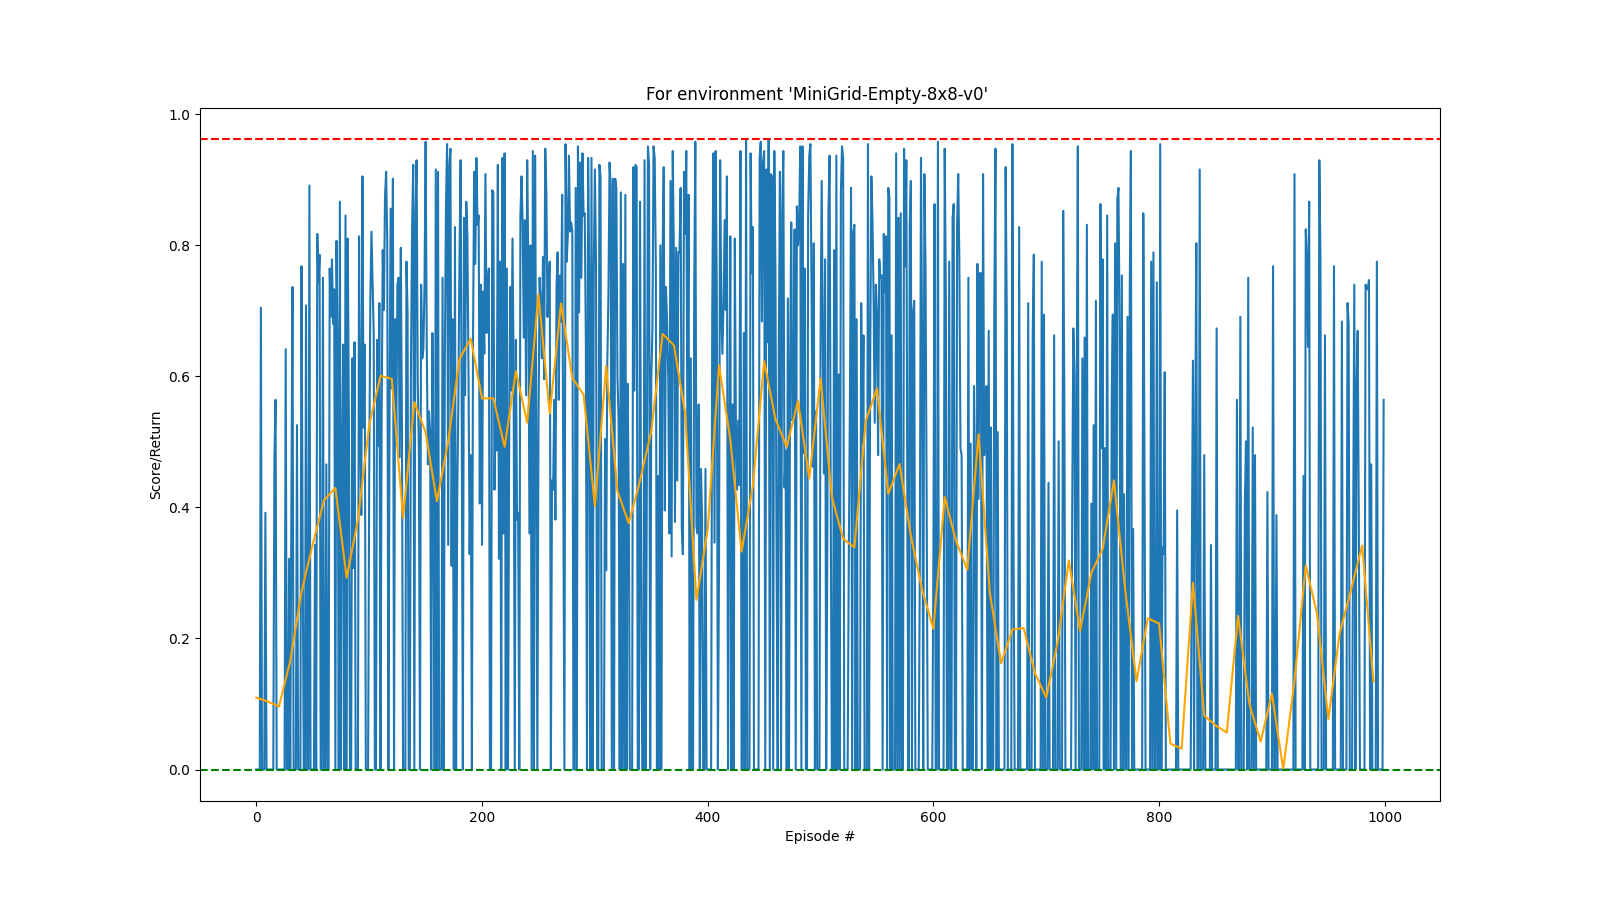
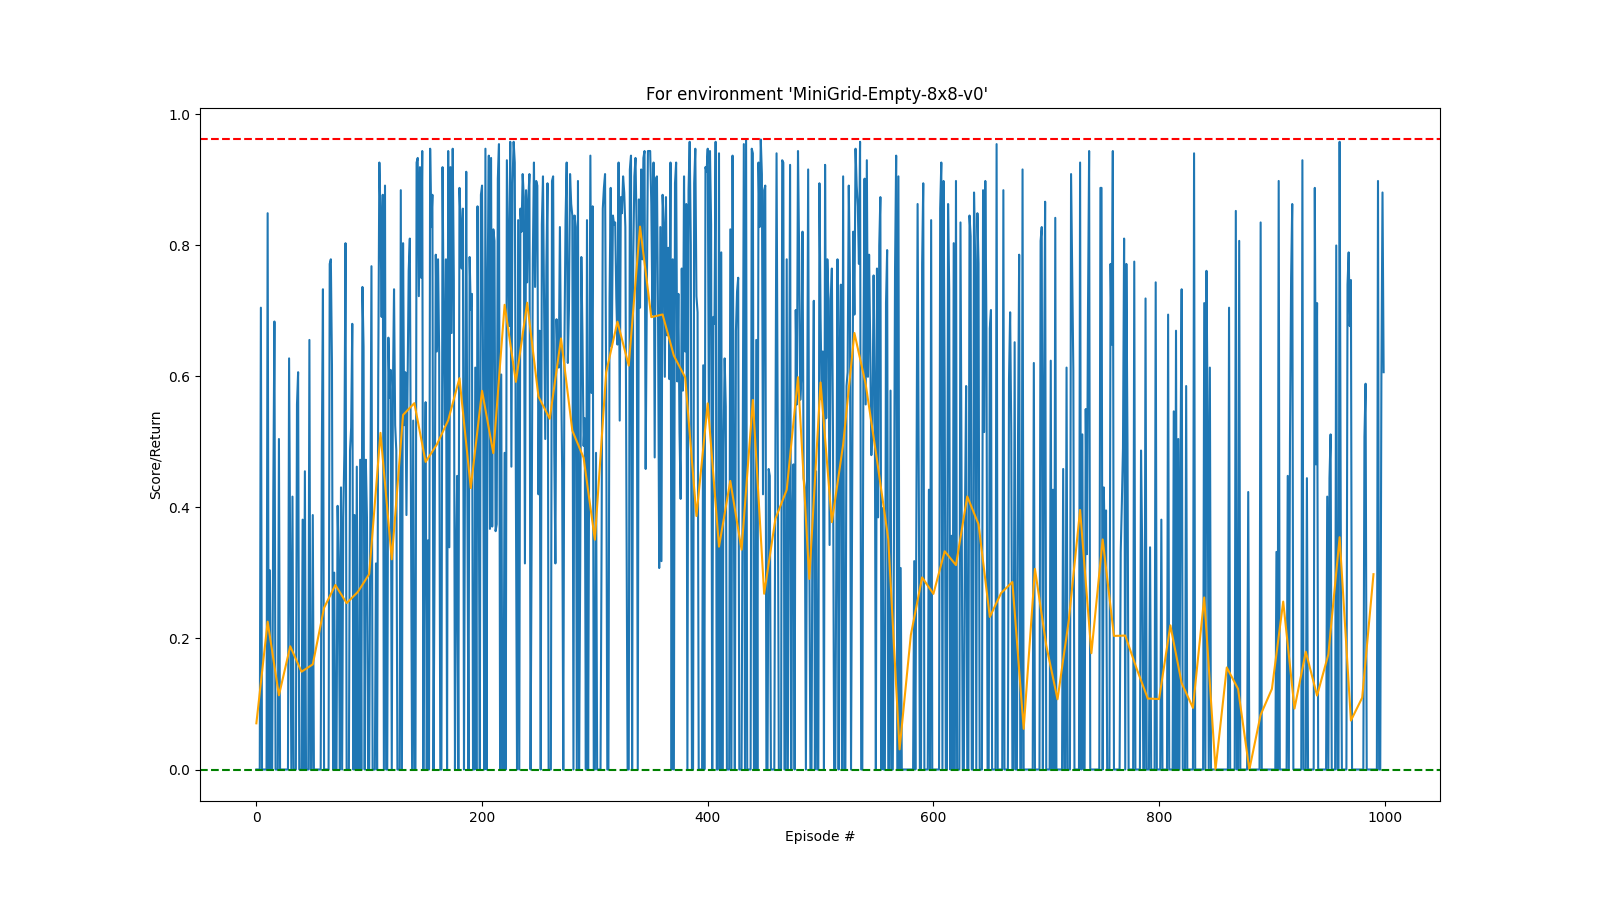
Backup Commit

Changed region(s): [[0.1562, 0.1556, 0.875, 0.8711]]

diff --git a/test_minigrid.py b/test_minigrid.py
@@ -85,6 +85,16 @@ def dqn(n_episodes, max_t=200, eps_start=1.0, eps_end=0.01, eps_decay=0.995):
     
     return scores, max_score, min_score, smooth_scores
 
+# scores_list, smooth_scores_list = [], []
+
+# for _ in range(100):
+#     scores, max_score, min_score, smooth_scores = dqn(n_episodes)
+#     scores_list.append(scores)
+#     smooth_scores_list.append(smooth_scores)
+    
+# scores = np.mean(scores_list, axis=0)
+# smooth_scores = np.mean(smooth_scores_list, axis=0)
+
 scores, max_score, min_score, smooth_scores = dqn(n_episodes)
 
 fig = plt.figure(figsize=(16, 9))

diff --git a/model.py b/model.py
@@ -33,7 +33,7 @@ class QNetwork(nn.Module):
 
 class QNetwork_conv(nn.Module):
 
-    def __init__(self, input_channels = 3, conv_channels = 1, kernel_size = 3, stride = 1, output_dim = 7):
+    def __init__(self, input_channels = 3, conv_channels = 1, kernel_size = 3, stride = 1, output_dim = 3):
         super(QNetwork_conv, self).__init__()
         
         # Grayscale conversion
